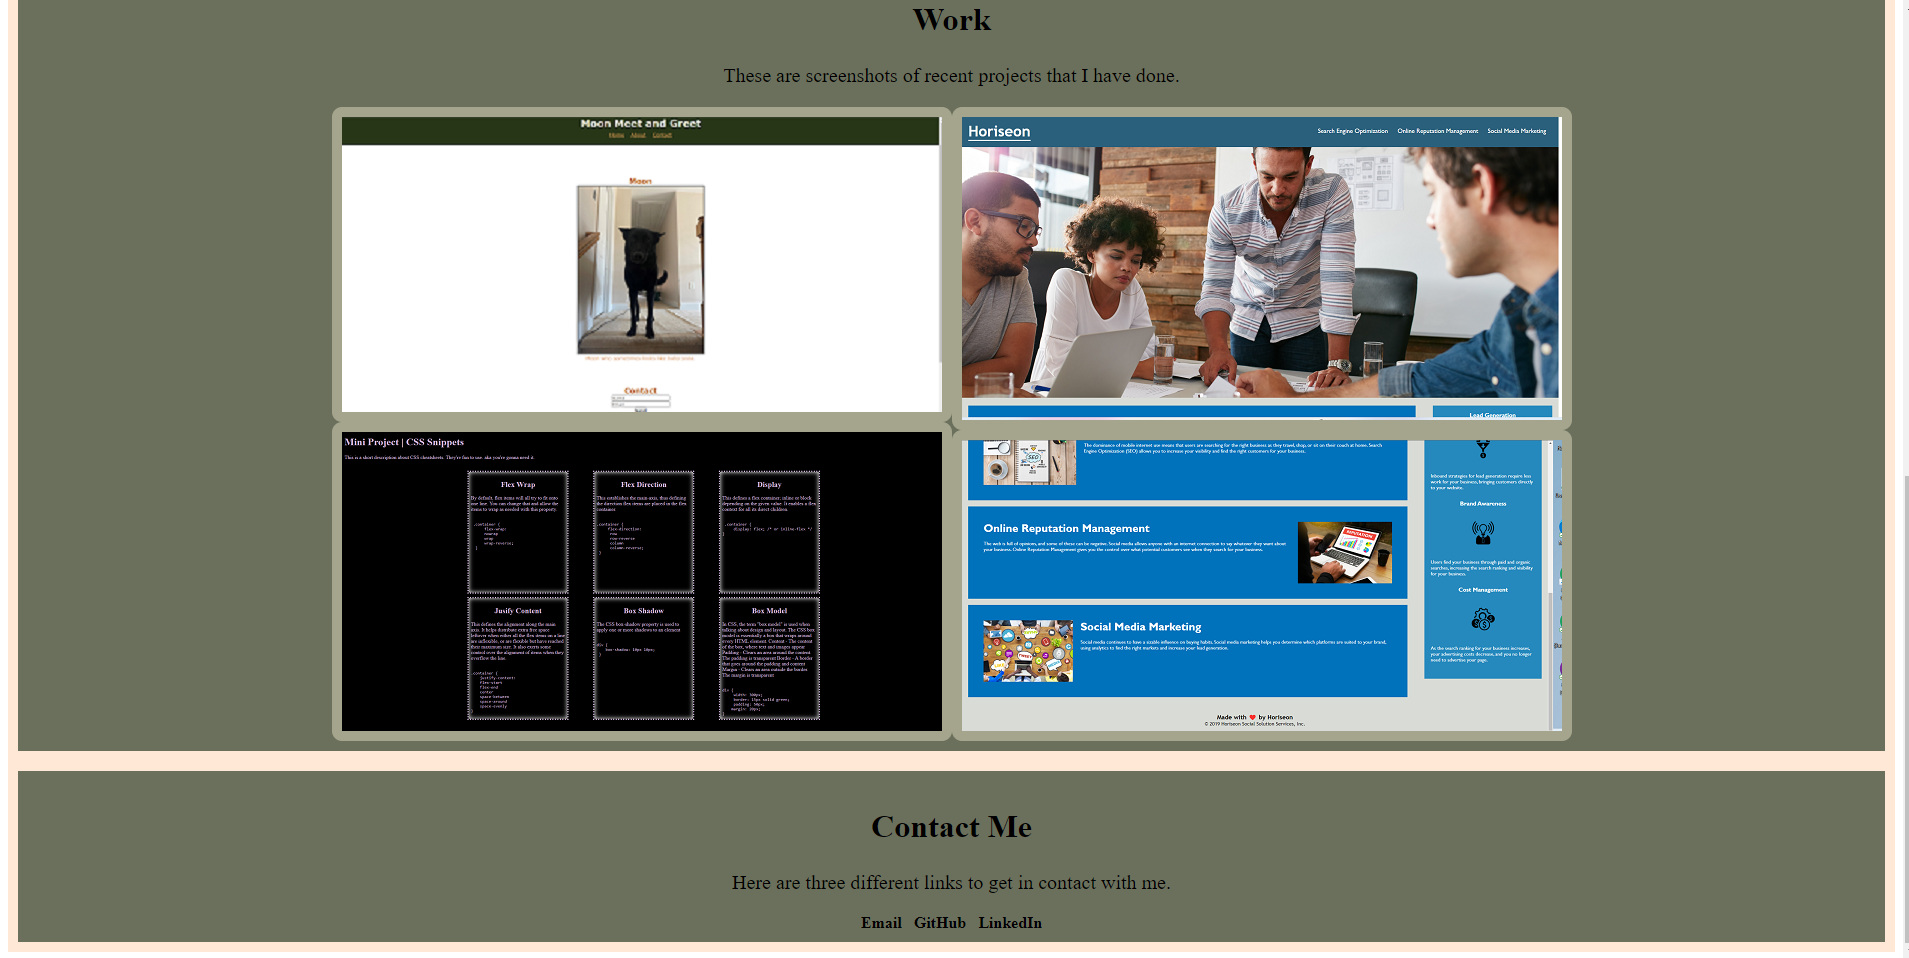
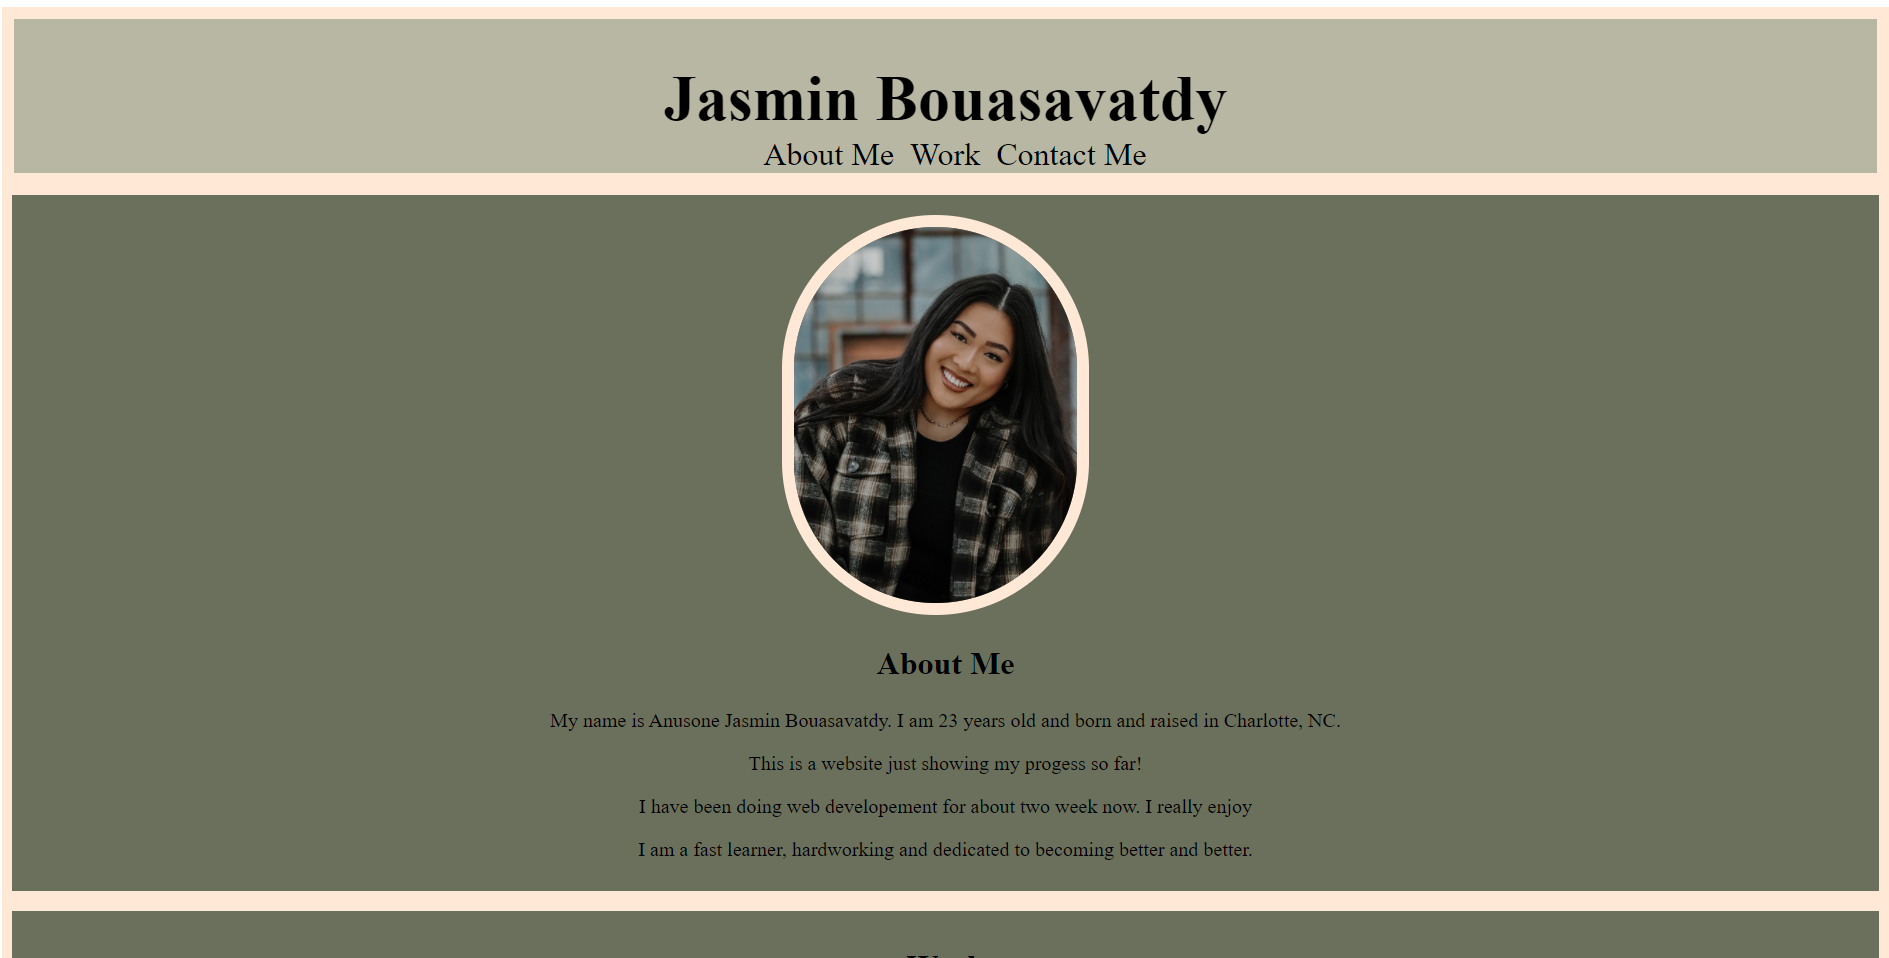
changes links

diff --git a/index.html b/index.html
@@ -76,8 +76,7 @@
         <article id="contact-me" class="main">
             <footer>
                 <h2>Contact Me</h2>
-                <p>Here are three different links to get in contact with me.</p>
-                <a href="jasminbouasavatdy@hotmail.com"><strong>Email</strong></a>
+                <p>Here are two different links to get in contact with me.</p>
                 <a href="https://github.com/jasminbouasavatdy/portfolio-website"><strong>GitHub</strong></a>
                 <a href="https://www.linkedin.com/in/jasmin-bouasavatdy-0a9559227/"><strong>LinkedIn</strong></a>
             </footer>
